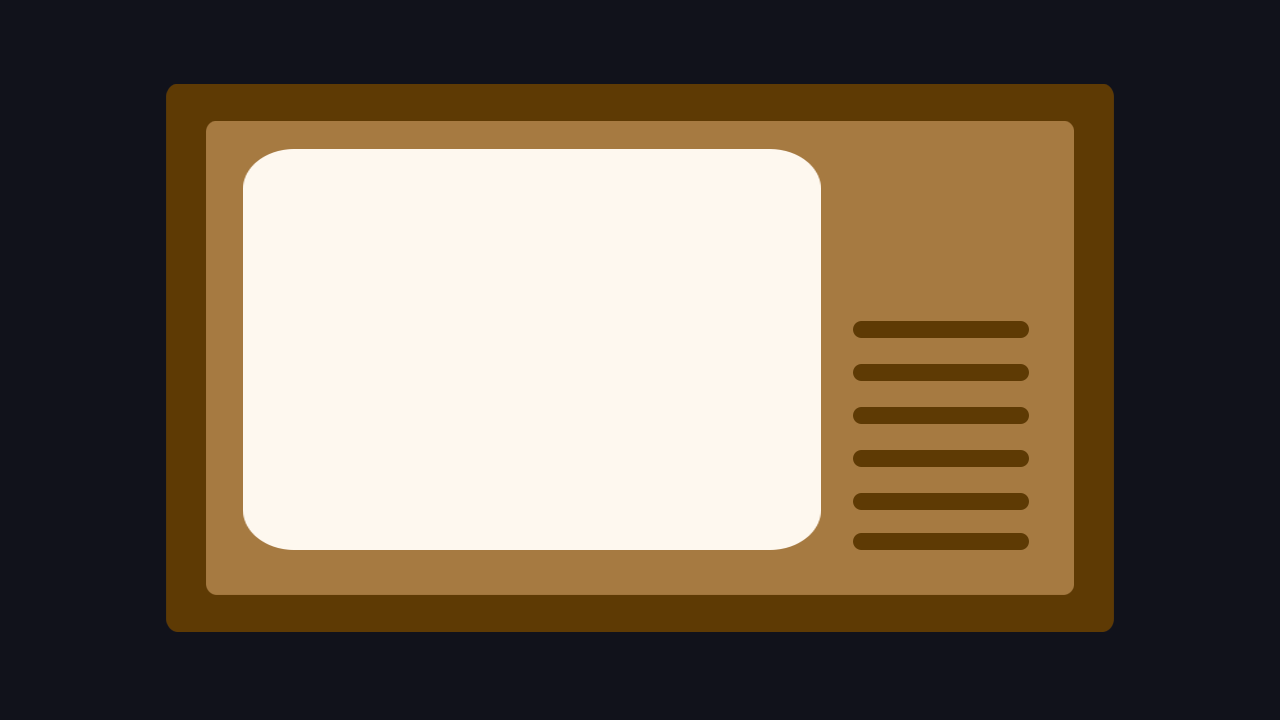
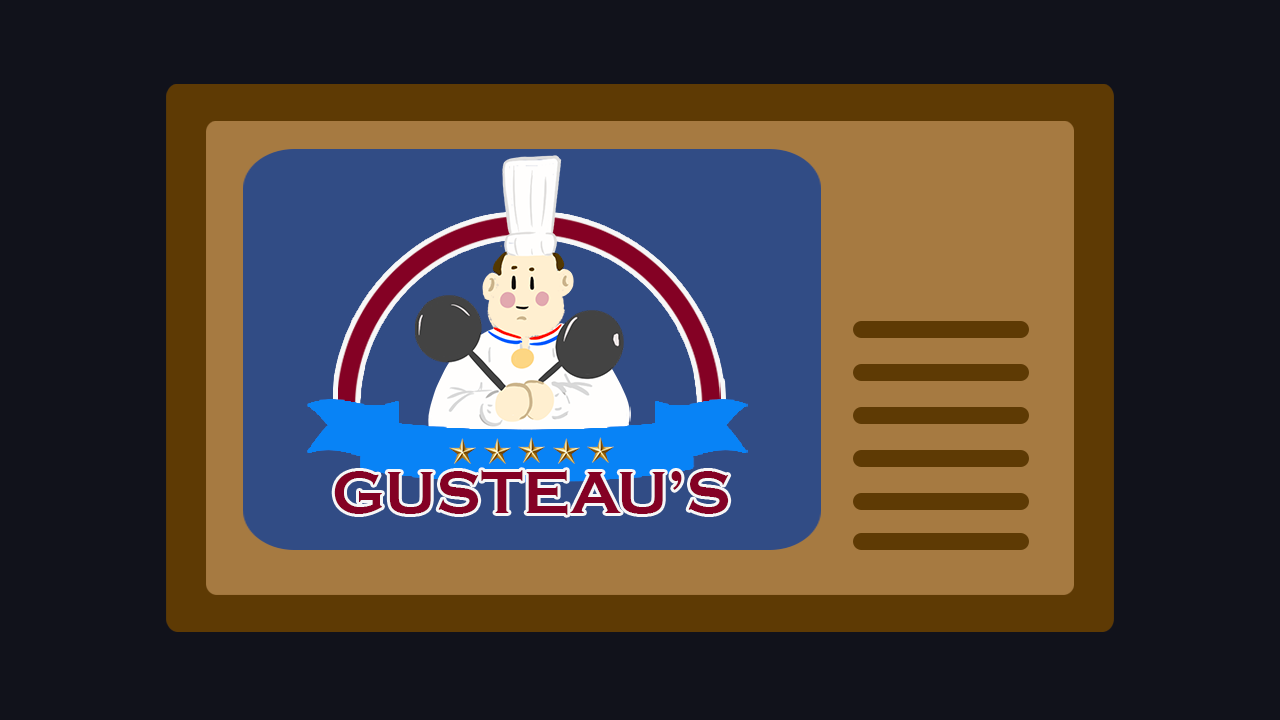
P1: Added final tv state background

Changed region(s): [[0.1875, 0.1833, 0.6562, 0.7639]]

diff --git a/Projects/Project 01/Project 01/js/script.js b/Projects/Project 01/Project 01/js/script.js
@@ -14,7 +14,7 @@ ideas:
   - start state -- √
   - menu -- √
   - backstory -- √
-  - gustavo on the tv
+  - gustavo on the tv ---- √
   - hide from mousetrap and poison
   - meet linguini
   - handpose game --√

diff --git a/Projects/Project 01/Project 01/README.md b/Projects/Project 01/Project 01/README.md
@@ -12,6 +12,8 @@ To meet the requirements I used responsiveVoice and ml5 handpose. I used respons
 Sources :
 ========
 -  Playlist to all the songs: https://www.youtube.com/watch?v=0xJoNV8rq84&list=PLB3CC5B614BD280E1&index=15&ab_channel=121UniversalCritic
+- ml5 handpose camera issue: https://editor.p5js.org/pippinbarr/sketches/wAqNc_PUs
+- fade animation : https://editor.p5js.org/remarkability/sketches/rtM08miUD
 - 2d elements drawn by me
 - Fonts:
     - Copperplate
